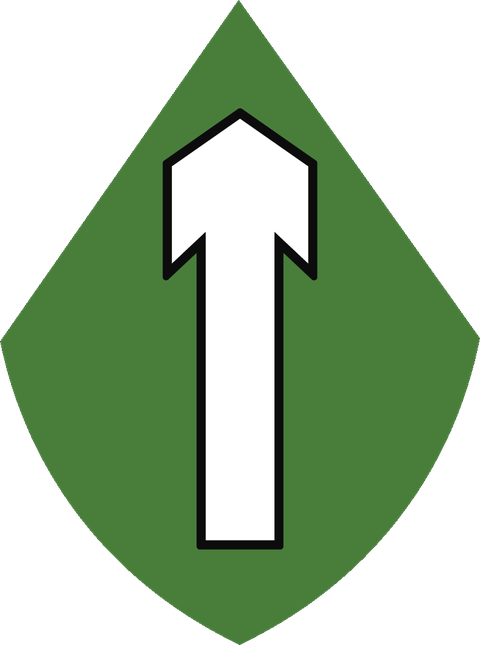
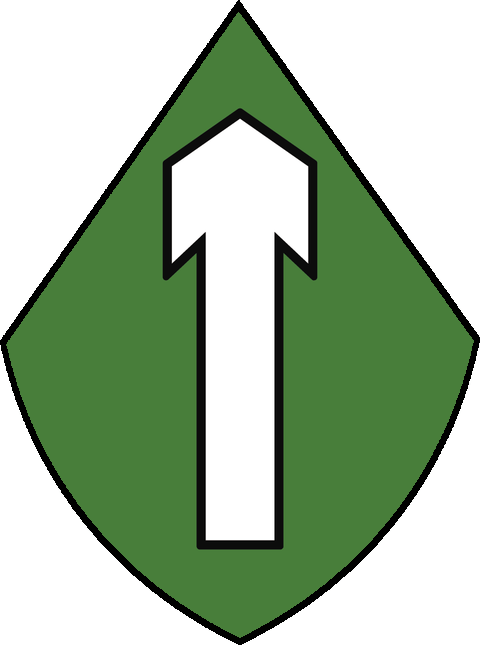
Fix: checkboxes del paso Pregunta mal renderizados + contorno perdido de los escudos de sección
Espejo de pagina-rdp@03942e6 — ver CLAUDE.md del repo privado para el detalle completo.

Claude-Session: https://claude.ai/code/session_01GcQafMNN279XC4oZBWSR3d

diff --git a/css/views/secuencial.css b/css/views/secuencial.css
@@ -128,9 +128,24 @@
 
 .step-cond-row select, .step-cond-row input{ width:auto; flex:1 1 140px; margin-top:0; }
 
-.step-inline-check{ display:flex; align-items:center; gap:6px; font-size:13px; margin-top:6px; }
+/* El constructor de pasos entero vive adentro de un solo `.form-row` (ver
+     `renderStepsBuilder()`), así que `.form-row label{display:block}`
+     (especificidad 0,1,1) le ganaba de una a `.step-inline-check{display:flex}`
+     (0,1,0, ni siquiera empate) — el checkbox quedaba renderizado como una
+     caja ancha con borde/padding heredados de `.step-row input` (mismo tipo
+     de bug de especificidad ya visto con `.novedades-count`/`.tag`), y el
+     texto del label caía a su propio renglón debajo. Se ancla a `.form-row`
+     para ganarle a esa regla, y a `.step-row` para ganarle a `.step-row
+     input` en el reset del checkbox mismo. */
+.form-row .step-inline-check{ display:flex; align-items:center; gap:6px; font-size:13px; margin-top:6px; }
 
-.step-inline-check input{ width:auto; margin:0; }
+.step-row .step-inline-check input{
+    width:auto;
+    padding:0;
+    border:none;
+    border-radius:0;
+    margin:0;
+  }
 
 /* Entrada "secuencial" — se recorre paso a paso en vez de mostrarse toda junta. */
 
